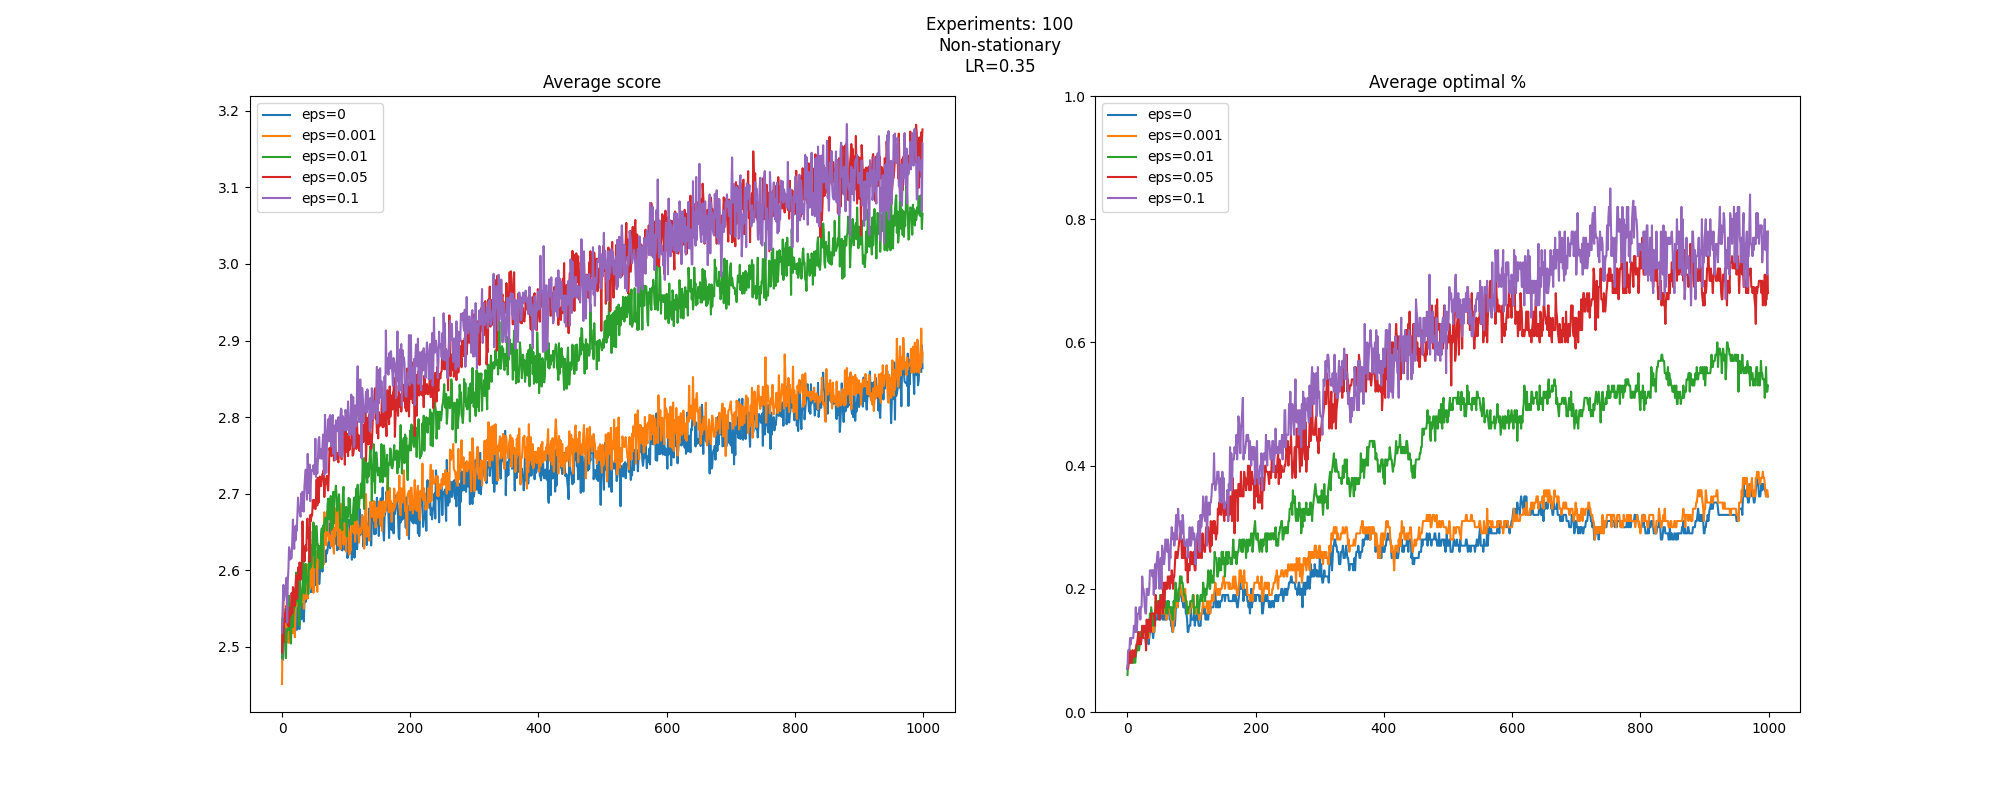
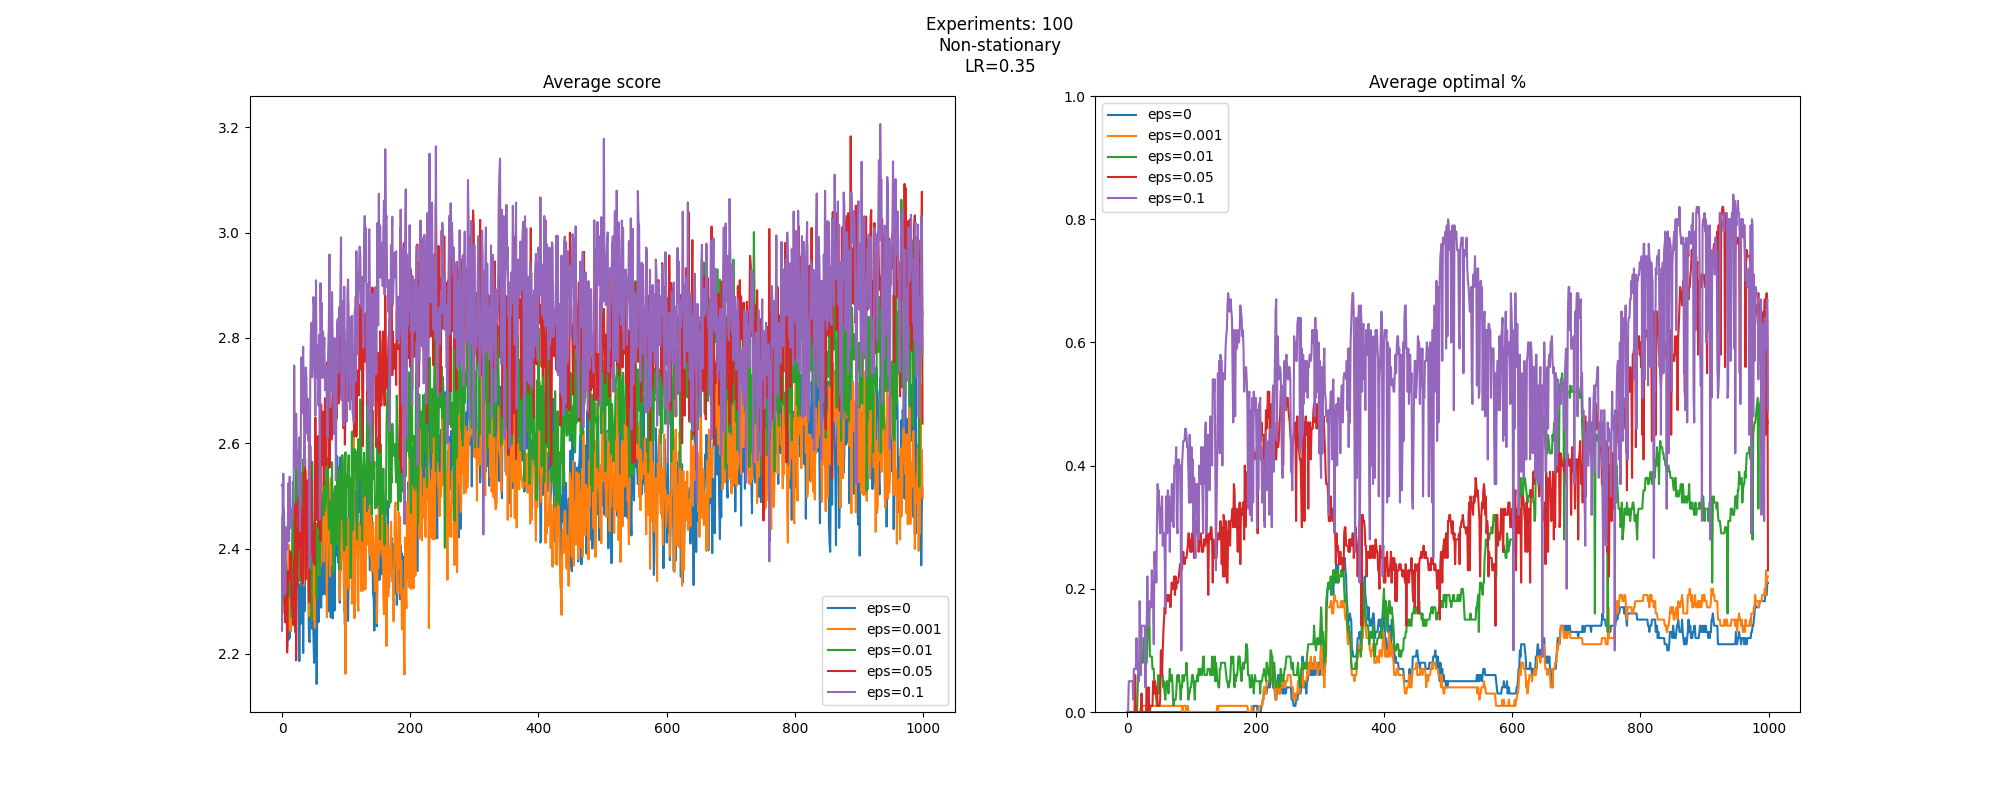
thread again

Changed region(s): [[0.124, 0.125, 0.465, 0.8438], [0.558, 0.25, 0.899, 0.9062], [0.434, 0.75, 0.465, 0.875]]

diff --git a/Bandits/simple_algo.py b/Bandits/simple_algo.py
@@ -4,9 +4,14 @@ import numpy as np
 import random
 from threading import Lock
 import matplotlib.pyplot as plt
+import concurrent.futures
+import multiprocessing
+from multiprocessing import Pool, Value, Manager
 
+NUM_THREADS = multiprocessing.cpu_count()
+NUM_LEFT = 0
 
-LR = 0.35
+LR = 0.2
 # LR = None
 # USE_LINSPACE_MEANS = True
 NUM_AGENTS = 5
@@ -17,8 +22,8 @@ USE_LINSPACE_MEANS = False
 
 NON_STATIONARY = True
 
-NUM_ACTIONS = 1000
-NUM_EXPERIMENTS = 100
+NUM_ACTIONS = 10000
+NUM_EXPERIMENTS = 3000
 
 mutex = Lock()
 
@@ -80,6 +85,20 @@ def experiment(num_bandits= 10, num_agents=5, epsilons=None, num_actions=10000, 
 
     return scores, optimal_actions
 
+def thread_experiment(args):
+    i = args[0]
+    num_left = args[1]
+    # print(f'Starting thread {i}')
+    out =  experiment(*(args[2:]))
+    # print(f'Finished thread {i}')
+
+    mutex.acquire()
+    num_left.value -= 1
+    print(f"{num_left.value} left")
+    mutex.release()
+
+    return out
+
 def main():
     num_agents = NUM_AGENTS
     num_bandits = NUM_BANDITS
@@ -97,12 +116,40 @@ def main():
                 list(range(num_experiments))
             ))
 
-    for i in range(num_experiments):
-        if(i % 10 == 0):
-            print(f"Iteration {i}/{num_experiments}")
-        s, o = experiment(num_bandits, num_agents, epsilons, num_actions, non_stationary)
+
+    m = Manager()
+    data = m.Value('i', num_experiments)
+    # m = Value('i', num_experiments)
+
+    args = map( lambda i:
+                # (i,
+                # scores,optimal,
+                (i, data, num_bandits, num_agents, epsilons, num_actions, non_stationary),
+                # (i, num_bandits, num_agents, epsilons, num_actions, non_stationary),
+                range(num_experiments)
+            )
+    res = None
+
+    with Pool(NUM_THREADS) as p:
+        res = p.map(thread_experiment, args)
+
+    for i, el in enumerate(res):
+        s, o = el
         scores[i,:,:] = s
         optimal[i,:,:] = o
+
+
+        
+
+    # for guy in guys:
+        # guy.result()
+    # executor.shutdown()
+
+        # if(i % 10 == 0):
+        #     print(f"Iteration {i}/{num_experiments}")
+        # s, o = experiment(num_bandits, num_agents, epsilons, num_actions, non_stationary)
+        # scores[i,:,:] = s
+        # optimal[i,:,:] = o
  
 
     score_means = scores.mean(0)
